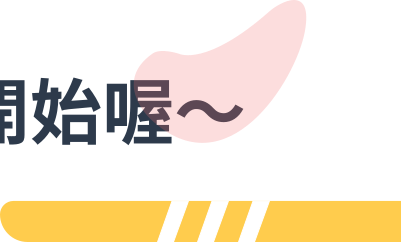
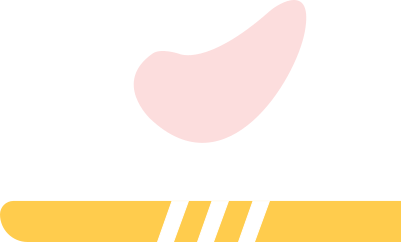
responsive for promotion apps are done!

Changed region(s): [[0.0, 0.3182, 0.6284, 0.6074]]

diff --git a/ebirdtaiwan/fall/static/css/dashboard.css b/ebirdtaiwan/fall/static/css/dashboard.css
@@ -1,8 +1,3 @@
-/* .modebar {
-    display:none !important;
-} */
-
-
 /* 
  For "Three Teams"
 */
@@ -12,7 +7,6 @@
     width: 95vw;
     top: 10vh;
     bottom: 15vh;
-    /* background: blue; */
 }
 
 
@@ -25,7 +19,6 @@
     display: inline-flex;
     width: 100%;
 
-    /* background: green; */
 }
 
 .team_card_col {
@@ -50,10 +43,6 @@
 /*
  For single team
 */
-
-/* .team_map {
-    height: 37.5vh;
-} */
 
 .team_map .svg-container {
     height: 37.5vh;
@@ -84,8 +73,6 @@
 .bar_style {
     height: 27vh;
     width: 22.5vw;
-    /* width: 30vw; */
-    /* padding: 1rem 0; */
     display: block !important;
 }
 
@@ -94,10 +81,7 @@
     margin-bottom: 0.5rem
 }
 
-/* .svg-container {
-    width: 75vw !important;
-    height: 75vh !important;
-} */
+
 
 /*
 * for prediction page
@@ -113,4 +97,60 @@
     font-weight: 600;
     padding-top: 3vh;
     padding-bottom: 3vh;
+}
+
+
+/*
+* not yet page
+*/
+#wait01, #wait02, #wait03{
+    position: absolute;
+}
+
+#wait01{
+    transform: translateX(-15px);
+    top: 20vh;
+    width: 15vw;
+}
+
+#wait02{
+    z-index: -2;
+    left: 12vw;
+    bottom: 4vh;
+    height: 70vh;
+}
+
+#wait03{
+    right: 0;
+    bottom: 18vh;
+    width: 20vw;
+}
+#not_yet_title{
+    position: absolute;
+    left: 45vw;
+    top: 48vh;
+    font-weight: bolder;
+    font-size: 3.5vw;
+    color: #8CB26C;
+}
+
+
+@media only screen and (max-width: 768px) {
+    #wait01{
+        width: 45vw;
+    }
+    #wait02{
+        left: -20vw;
+        height: 60vh;
+    }
+    #wait03{
+        bottom: 12vh;
+        width: 60vw;
+    }
+
+    #not_yet_title{
+        left: 50vw;
+        top: 60vh;
+        font-size: 5.0vw;
+    }
 }

diff --git a/ebirdtaiwan/fall/templates/fall/dashboard.html b/ebirdtaiwan/fall/templates/fall/dashboard.html
@@ -13,7 +13,12 @@
 <div id='dashboard_content' style='display:none'>
     {% plotly_direct name=page.dash_board_name %}
 </div>
-
+<div id='not_open_yet'>
+    <img id='wait01' src={% static 'img/fall/wait01.png' %}>
+    <img id='wait02' src={% static 'img/fall/wait02.png' %}>
+    <img id='wait03' src={% static 'img/fall/wait03.png' %}>
+    <div id='not_yet_title'>等不及了？<br>挑戰賽還沒開始喔～</div>
+</div>
 
 <div class='bottom_rect'></div>
 
@@ -21,9 +26,10 @@
 from browser import document
 import datetime
 
-if datetime.date.today() >= datetime.date(2020,9,25):
+if datetime.date.today() >= datetime.date(2020,10,1):
     document['dashboard_content'].style.display = 'block'
-
+else:
+    document['not_open_yet'].style.display = 'block'
 
 </script>
 {% endblock content %}

diff --git a/ebirdtaiwan/fall/templates/fall/reward.html b/ebirdtaiwan/fall/templates/fall/reward.html
@@ -42,6 +42,7 @@
     <div class='mobile_title' style='padding-top: 12vh'>2020秋季臺北觀鳥大賽</div>
     <div class='mobile_title' style='color:#607B49;'>AUTUMN CHALLENGE</div>
     <div class='minfo_content'>{{ page.reward_content | richtext}} </div>
+    <div class='mbg_shape'></div>
 </div>
 
 <script type="text/python">
@@ -52,7 +53,7 @@ if window.innerWidth >= 768:
 
 if window.innerWidth < 768:    
     document['mprize_content'].style.display = 'block'    
-
+    document['mprize_content'].get(selector='b')[3].style.display = 'none'
 </script>
 
 {% endblock content %}

diff --git a/ebirdtaiwan/fall/static/css/fall.css b/ebirdtaiwan/fall/static/css/fall.css
@@ -36,6 +36,7 @@
     font-size: 4.5vh;
     line-height: 5.5vh;
     padding-bottom: 3vh;
+    font-weight: bolder;
 }
 
 .info_content h4 {
@@ -317,6 +318,9 @@ img {
     transform: translateX(-15px);
     color: #fff;
     width: max-content;
+}
+#prize_content h4{
+    display:none;
 }
 
 .minfo_content h2 {
